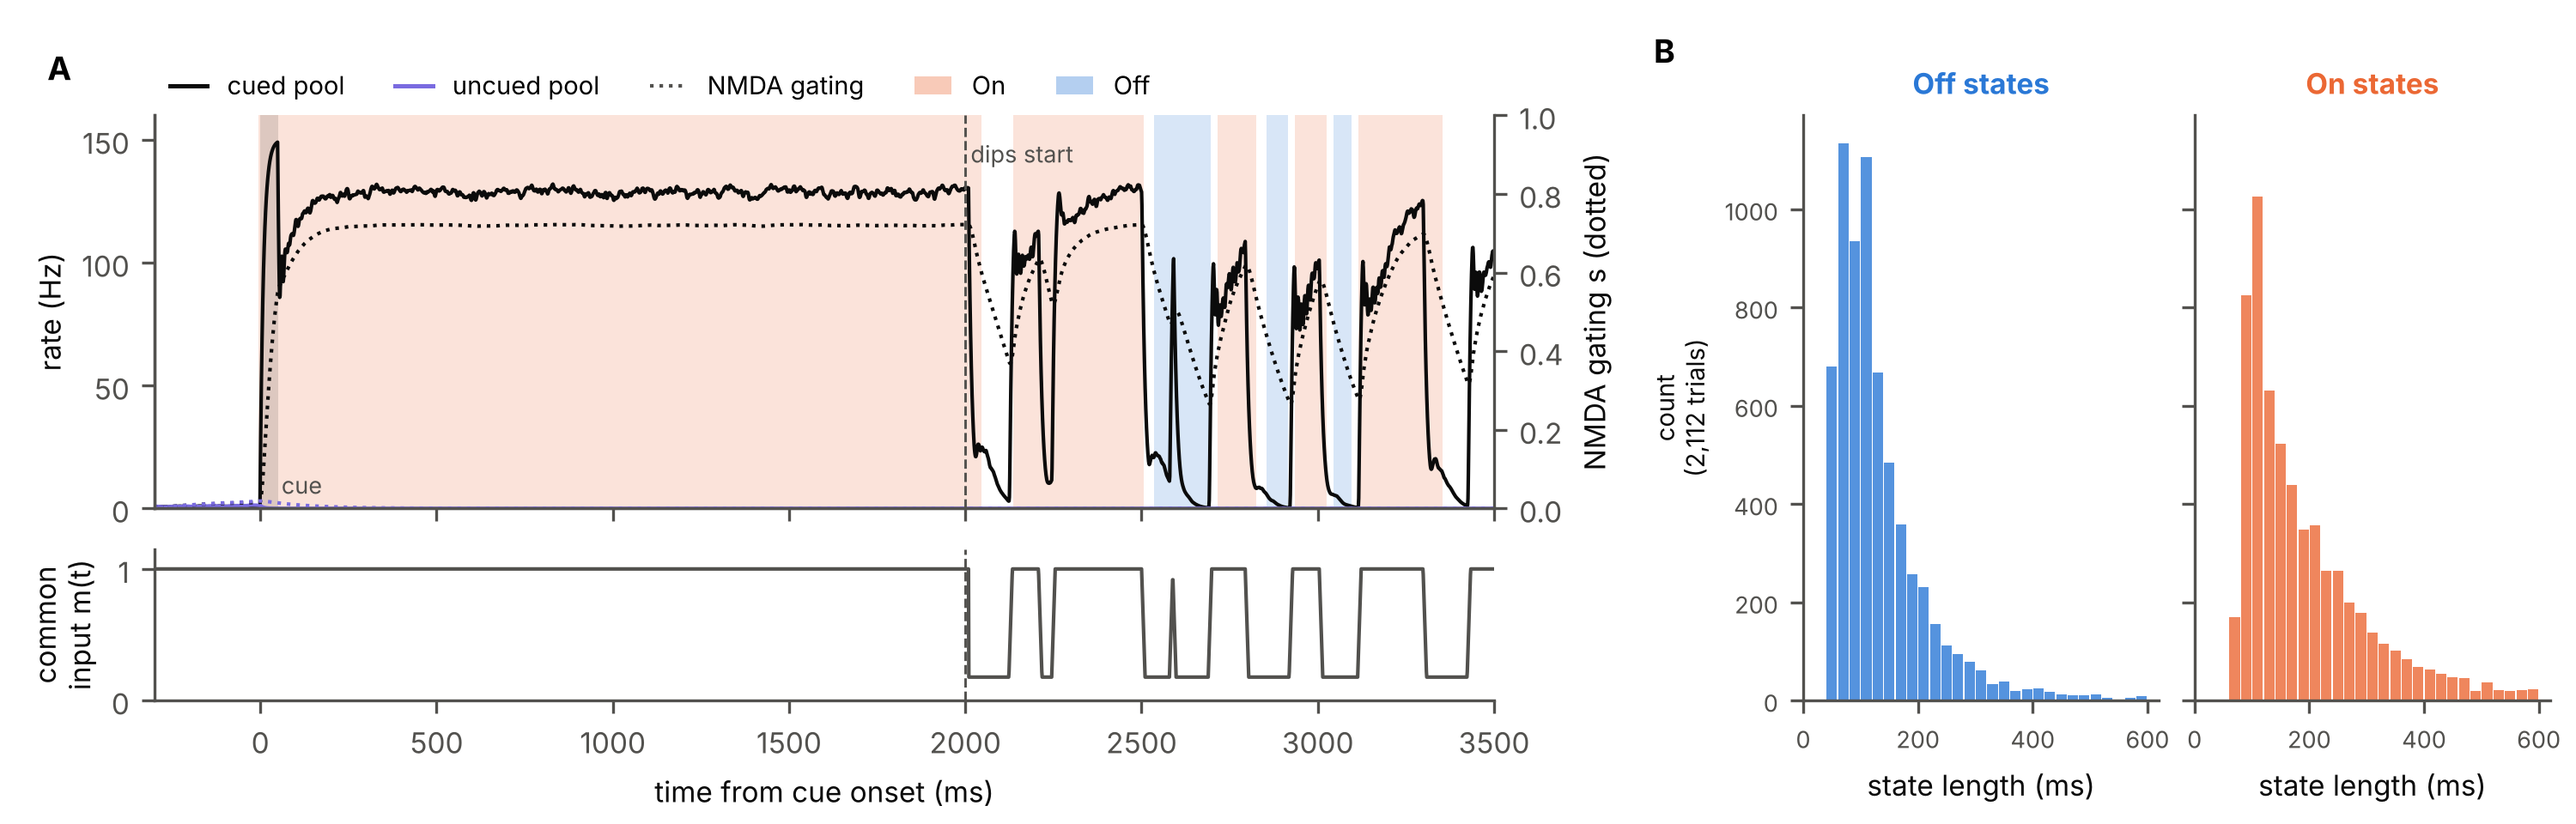
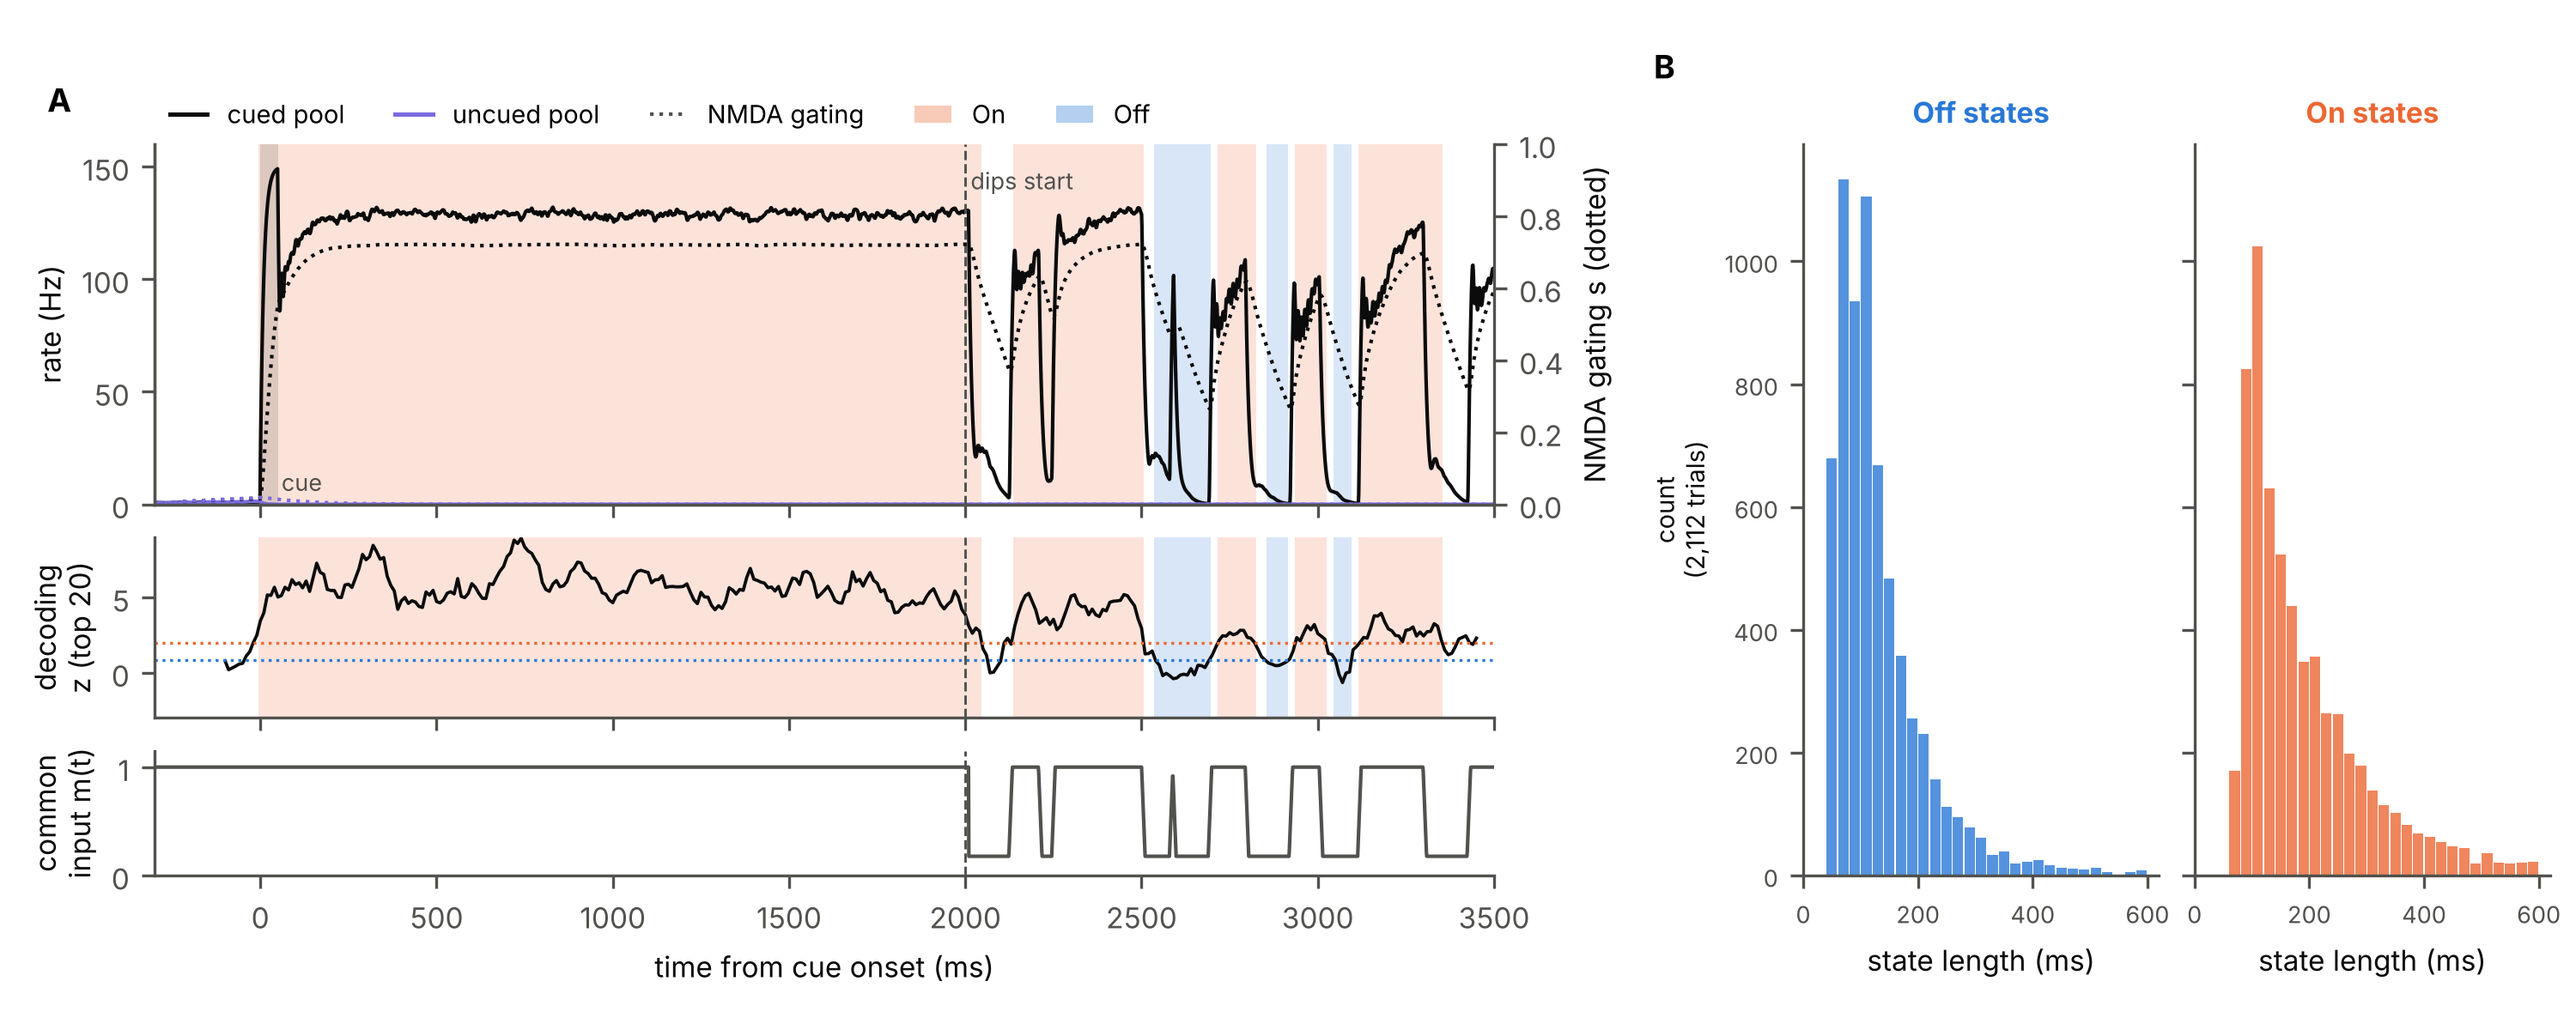
Figure 1: add the top-20 decoding z of the example trial
Claude-Session: https://claude.ai/code/session_01DWA8oLxpZgubPZ4A6kb3Lh

diff --git a/paper_model/make_figures.py b/paper_model/make_figures.py
@@ -1,7 +1,7 @@
 """Paper figures of the best-fit model.
 
 Figure 1: A, an example trial: 2 s of delay with a constant common input, then dips switched on (pool rates
-          and NMDA gating with the top-20 On/Off labels; common input below). B, right of A: the fitted model's top-20 Off and On
+          and NMDA gating, top-20 decoding z, with On/Off labels; common input below). B, right of A: the fitted model's top-20 Off and On
           length histograms (counts, states 0-1,400 ms after cue onset, as in the fit).
 Figure 2: On/Off statistics of every unit set, model vs data.
 
@@ -72,8 +72,8 @@ def figure1(out, path):
     sim, tz, z, state = example_trials(r['gain'])
     k = pick_trial(sim, tz, state)
     t = np.arange(sim['rA'].shape[1]) - sim['t_cue']
-    fig = plt.figure(figsize=(10.0, 3.2))
-    gs = fig.add_gridspec(2, 1, height_ratios=[2.6, 1], hspace=0.15, left=0.06, right=0.58, top=0.86, bottom=0.15)
+    fig = plt.figure(figsize=(10.0, 4.0))
+    gs = fig.add_gridspec(3, 1, height_ratios=[2.6, 1.3, 0.9], hspace=0.15, left=0.06, right=0.58, top=0.86, bottom=0.15)
     gh = fig.add_gridspec(1, 2, wspace=0.1, left=0.7, right=0.99, top=0.86, bottom=0.15)
     a = fig.add_subplot(gs[0])
     for lab, c in ((1, C_ON), (-1, C_OFF)):
@@ -95,11 +95,18 @@ def figure1(out, path):
                       plt.Rectangle((0, 0), 1, 1, color=C_OFF, alpha=0.35, lw=0, label='Off')],
              loc='lower left', bbox_to_anchor=(0, 1.0), ncol=5, fontsize=7, borderaxespad=0.2, handlelength=1.5)
     a.text(-0.08, 1.09, 'A', transform=a.transAxes, fontsize=9, weight='bold')
-    b = fig.add_subplot(gs[1], sharex=a)
+    d = fig.add_subplot(gs[1], sharex=a)
+    for lab, c in ((1, C_ON), (-1, C_OFF)):
+        for i0, i1 in R.runs(state[k] == lab):
+            d.axvspan(tz[i0] - R.STEP / 2, tz[i1 - 1] + R.STEP / 2, color=c, alpha=0.18, lw=0)
+    d.plot(tz, z[k], color=INK, lw=0.9)
+    d.axhline(1.96, color=C_ON, ls=':', lw=0.8); d.axhline(0.84, color=C_OFF, ls=':', lw=0.8)
+    d.set_ylim(-3, 9); d.set_ylabel('decoding\nz (top 20)'); d.tick_params(labelbottom=False)
+    b = fig.add_subplot(gs[2], sharex=a)
     b.plot(t, sim['m'][k], color=INK2, lw=1.0)
     b.set_ylim(0, 1.15); b.set_yticks([0, 1]); b.set_ylabel('common\ninput m(t)')
     b.set_xlabel('time from cue onset (ms)')
-    for ax_ in (a, b):
+    for ax_ in (a, d, b):
         ax_.axvline(QUIET, color=INK2, ls='--', lw=0.7)
     a.text(QUIET + 15, 150, 'dips start', fontsize=6.5, color=INK2, va='top')
     # histograms of the fitted model's top-20 state lengths (states 0-1,400 ms after cue onset)
